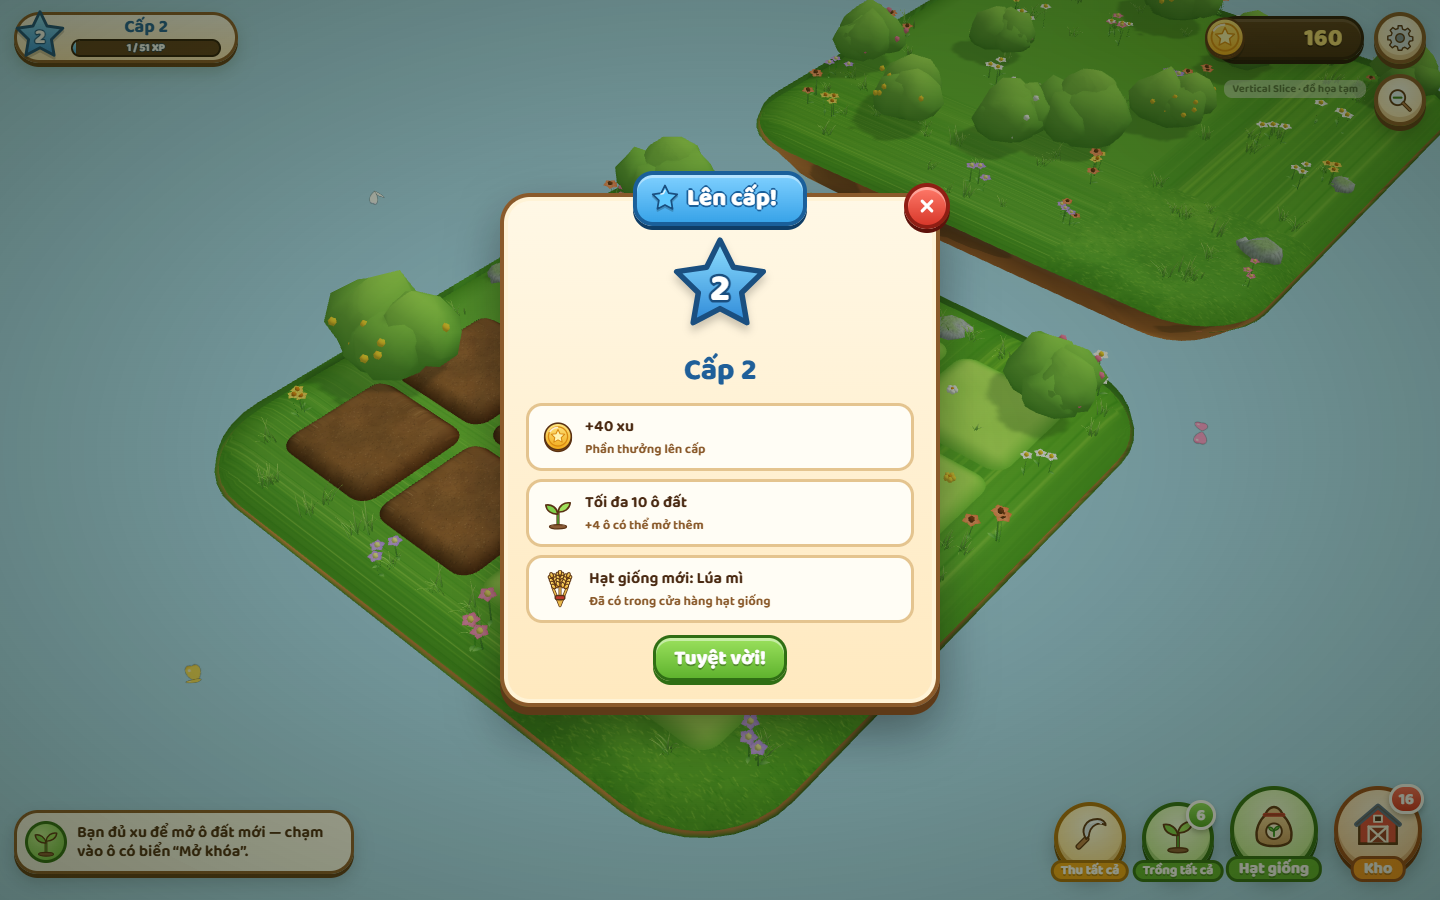
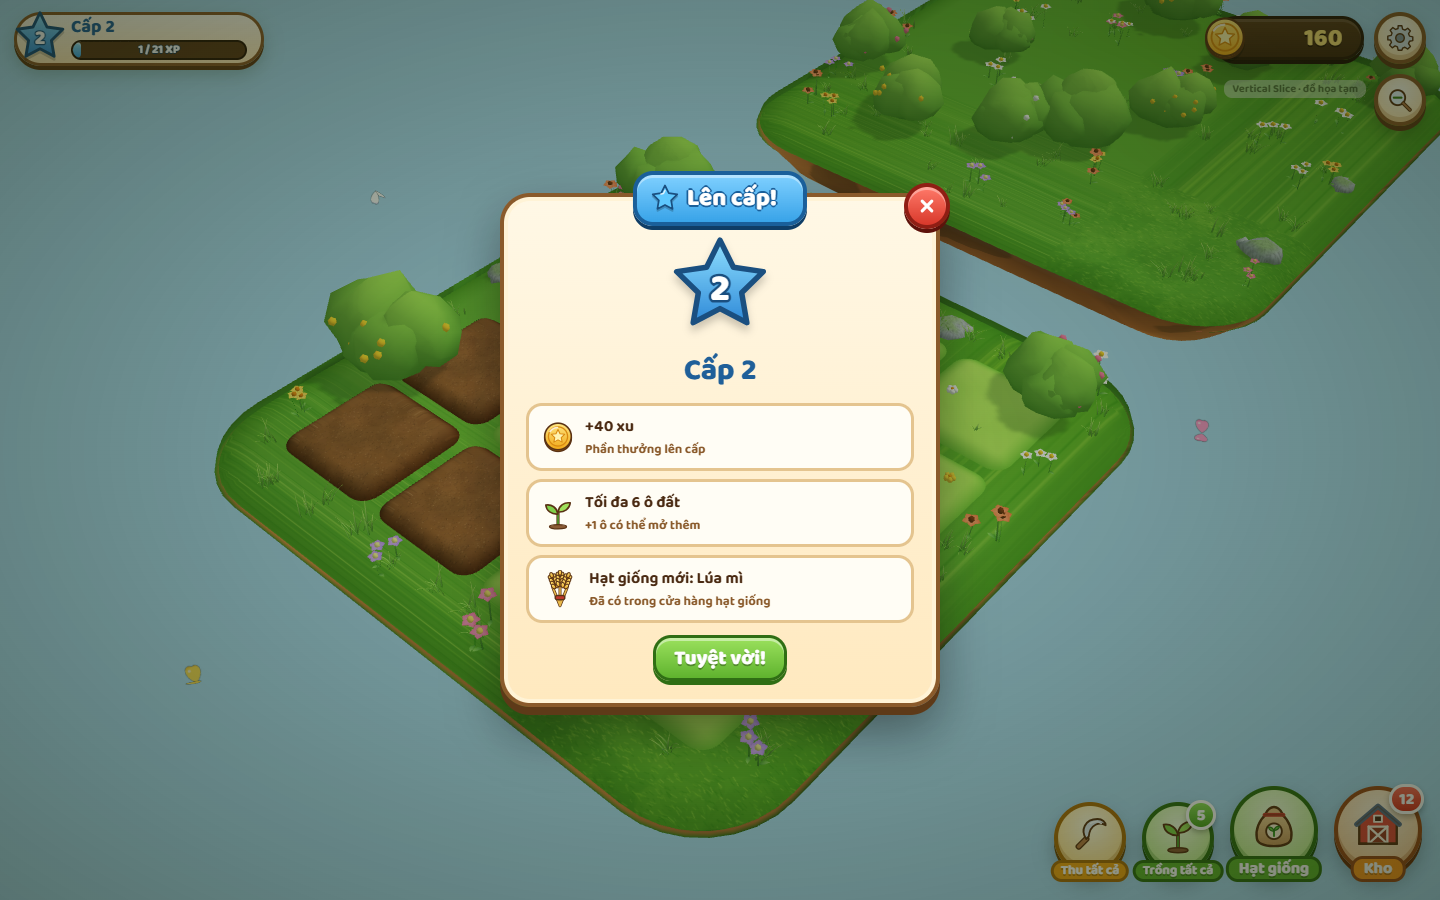
Open one tile per level and reprice land
Land is now the scarce resource, so tile prices scale with the coins a
player earns per level, and the XP curve is eased to keep pacing similar.

diff --git a/client/src/game/config.ts b/client/src/game/config.ts
@@ -69,17 +69,17 @@ export const STARTING_COINS = 50;
 
 /** XP needed to go from `level` to `level + 1`. No level cap. */
 export function xpToNext(level: number): number {
-  return Math.round(10 * Math.pow(level, 2.35));
+  return Math.round(5 * Math.pow(level, 2.1));
 }
 
-/** Tiles a player of this level may own: land opens up 4 tiles per level, forever. */
+/** Tiles a player of this level may own: each level (from level 1) allows one more tile, forever. */
 export function tileCap(level: number): number {
-  return 6 + 4 * (level - 1);
+  return START_UNLOCKED + level;
 }
 
 /** Lowest level that allows owning `count` tiles. */
 export function levelForTiles(count: number): number {
-  return Math.max(1, Math.ceil((count - 6) / 4) + 1);
+  return Math.max(1, count - START_UNLOCKED);
 }
 
 /** Coins granted on reaching `level`. */
@@ -124,10 +124,13 @@ export function tileWorldPos(g: number): { x: number; z: number } {
   return { x: pc.x + (c - off) * TILE_PITCH, z: pc.z + (r - off) * TILE_PITCH };
 }
 
-/** Price of the next tile: polynomial in tiles owned, so it keeps pace with income from bigger farms. */
+/**
+ * Price of the next tile. Land opens one tile per level, so each tile is
+ * priced at roughly the coins a player earns during that level.
+ */
 export function unlockCost(unlockedCount: number): number {
   const extra = Math.max(0, unlockedCount - START_UNLOCKED);
-  return Math.round((40 + 6 * Math.pow(extra, 2.15)) / 10) * 10;
+  return Math.round((40 + 20 * Math.pow(extra, 2.4)) / 10) * 10;
 }
 
 export type Quality = 'low' | 'medium' | 'high';
